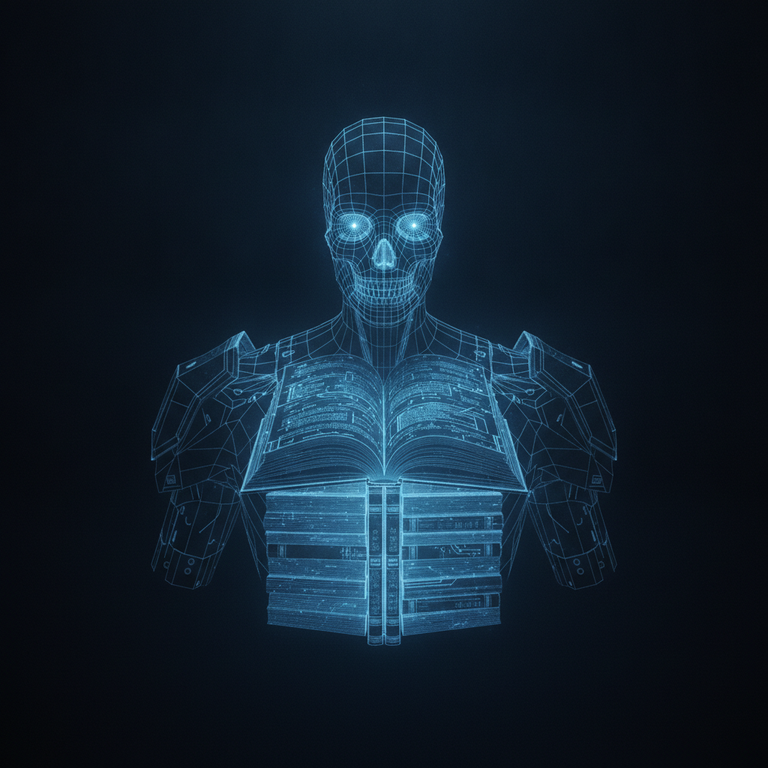
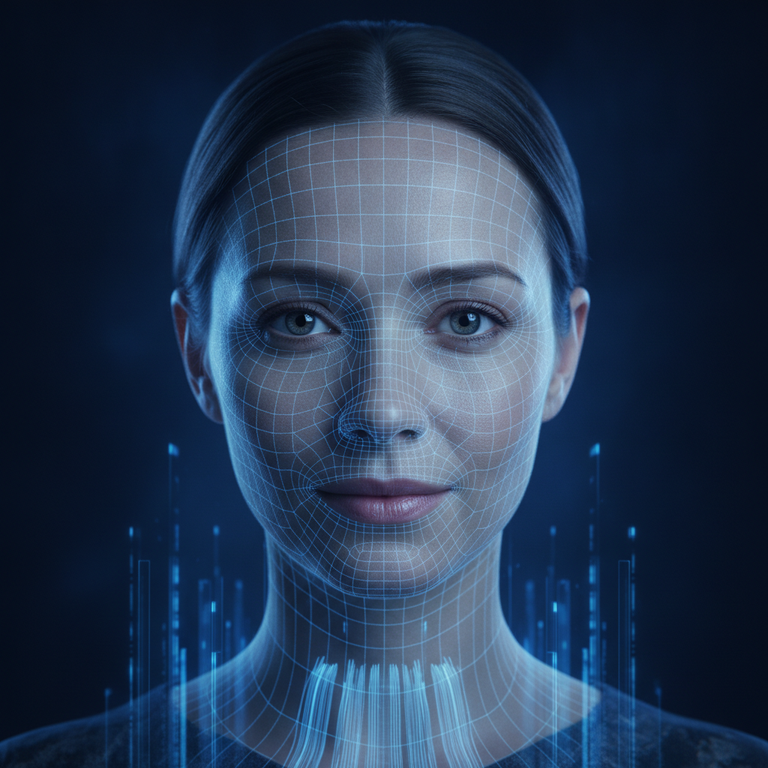
Regenerate portraits with photographic realism per reference style
Updates the shared prompt style and per-agent motifs so each portrait is
a distinct, gendered human face with real photographic detail and
personality, blended with a blue hologram/wireframe overlay — matching
the visual reference the user provided, rather than the prior abstract
uniform wireframe heads. Re-ran the generation script (real Gemini API
calls) to replace all 8 portraits and the disclosure manifest.

Claude-Session: https://claude.ai/code/session_014RtqtC69eGgiK8LLUTNieG

diff --git a/scripts/generate-agent-portraits.ts b/scripts/generate-agent-portraits.ts
@@ -17,38 +17,49 @@ const OUTPUT_DIR = join("dashboard", "public", "agents");
 const PORTRAIT_SIZE = 768;
 
 const SHARED_STYLE =
-  "A cinematic dark mission-control character portrait: a humanoid figure " +
-  "built from glowing monochrome-blue wireframe lines and faint circuit-like " +
-  "glow, set against a near-black navy background with subtle depth fog. " +
-  "Bust/shoulders framing, centered, symmetrical, high contrast, no text, " +
-  "no logos, no watermark, square aspect ratio, digital concept art style.";
+  "A moody, cinematic portrait blending photographic human realism with a " +
+  "glowing monochrome-blue hologram/wireframe treatment: real, detailed, " +
+  "individual facial features and a distinct personality/expression — not " +
+  "an abstract or generic mesh face. Softly lit by a cool blue glow, set " +
+  "against a near-black navy background with subtle atmospheric haze. " +
+  "Shoulders-up framing, centered, mission-control HUD aesthetic, no text, " +
+  "no logos, no watermark, square aspect ratio, high detail digital art.";
 
 const VISUAL_MOTIFS: Record<string, string> = {
   scout:
-    "The figure's head is overlaid with a faint glowing star-map / compass " +
-    "grid, as if scanning the horizon for a location.",
+    "A young man with short dark hair and a focused, scanning gaze, chin " +
+    "slightly lifted as if reading a distant horizon. A faint glowing " +
+    "star-map / compass grid traces across his forehead and cheek.",
   loom:
-    "Threads of glowing blue light weave and cross around the figure's " +
-    "hands and shoulders, as if spinning an idea into form.",
+    "A woman with long flowing hair and an inspired, dreamy expression, " +
+    "glancing slightly upward. Faint threads of glowing blue light weave " +
+    "through her hair and around her shoulders, as if spinning an idea " +
+    "into form.",
   etch:
-    "A single glowing line traces and etches fine linework across the " +
-    "figure's chest and face, like a stylus drawing itself into being.",
+    "A man with sharp features, short hair, and an intent, focused " +
+    "expression, leaning slightly forward as if mid-work. A single glowing " +
+    "line traces fine linework across his cheek and jaw, like a stylus " +
+    "etching itself into being.",
   bindery:
-    "The figure's torso is formed of stacked, faintly glowing bound pages, " +
-    "spine-lit, like an open book fused into armor.",
+    "A composed woman with her hair pulled back and a calm, orderly " +
+    "expression. Faint glowing lines like stacked bound pages trace across " +
+    "her collar and shoulder, spine-lit.",
   crier:
-    "A glowing waveform / broadcast signal radiates outward from the " +
-    "figure's chest and shoulders, like a herald's call.",
+    "A confident man with an animated, mid-speech expression and a slight " +
+    "smile. A glowing waveform / broadcast signal radiates faintly from " +
+    "his collar and jaw, like a herald's call.",
   ledger:
-    "The figure's chest is overlaid with a faint glowing ledger grid and " +
-    "tally-mark lines, precise and orderly.",
+    "A sharp-eyed woman with neatly styled hair and a precise, attentive " +
+    "expression. A faint glowing ledger-grid and tally-mark pattern " +
+    "overlays her cheek and collar, orderly and exact.",
   sentinel:
-    "The figure stands watchful, with a glowing shield-like emblem on the " +
-    "chest and a single watchful point of light at the head, faint " +
-    "circuit-armor plating.",
+    "A vigilant man with a strong jaw and a stern, watchful expression. A " +
+    "faint glowing shield-shaped emblem rests at his collar, with a single " +
+    "point of light reflected in his eyes.",
   analyst:
-    "A glowing compass rose and a faint upward trend-line overlay the " +
-    "figure's chest, precise and analytical.",
+    "A thoughtful woman with an analytical, calm expression, gazing " +
+    "slightly off-frame. A faint glowing compass rose and upward " +
+    "trend-line overlay her shoulder and collar, precise and analytical.",
 };
 
 function buildPrompt(agent: string): string {
